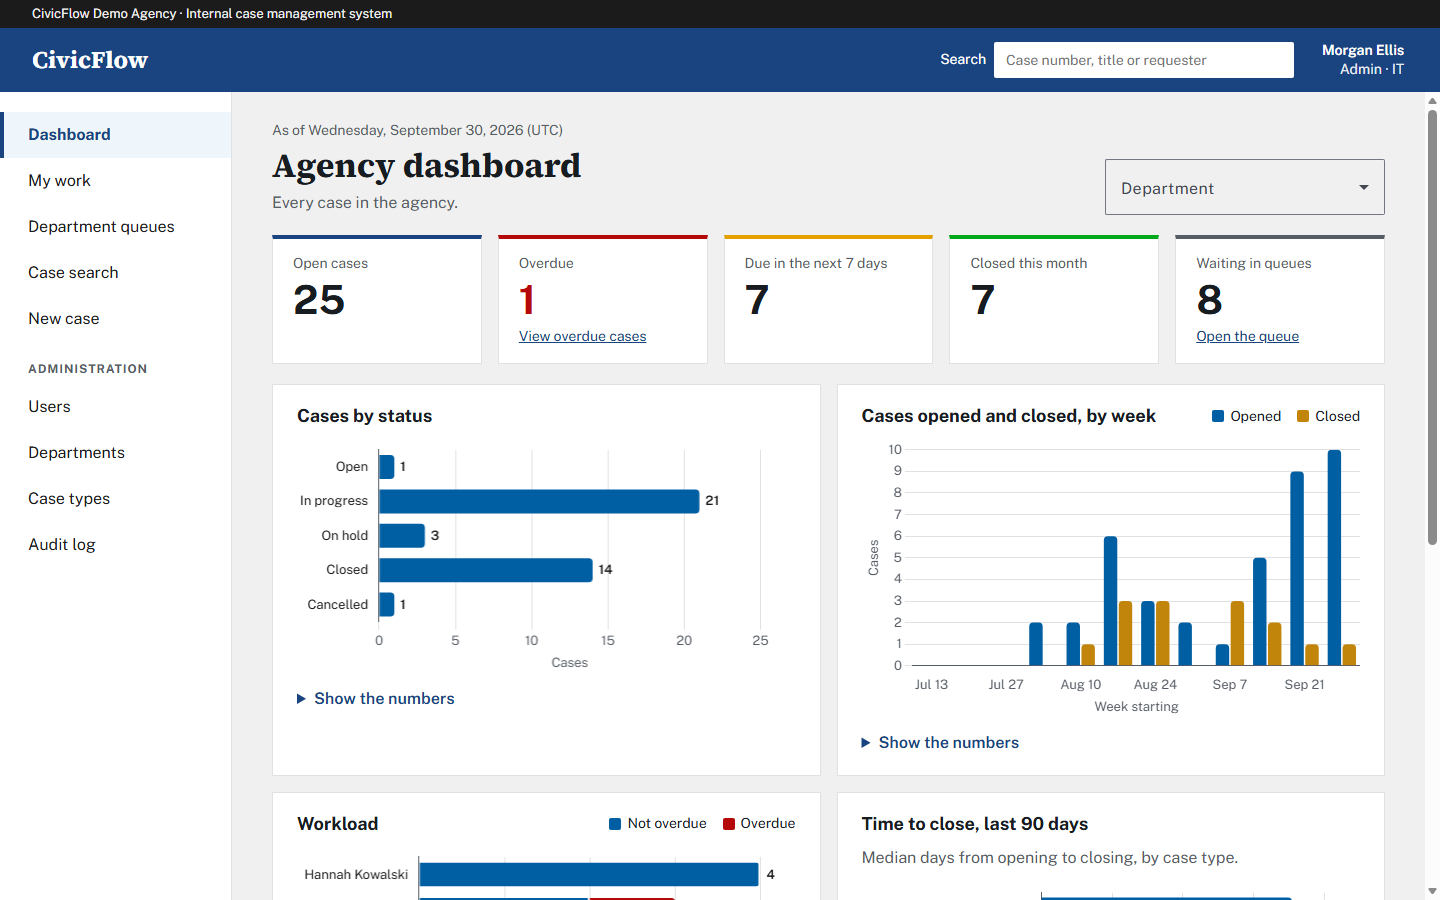
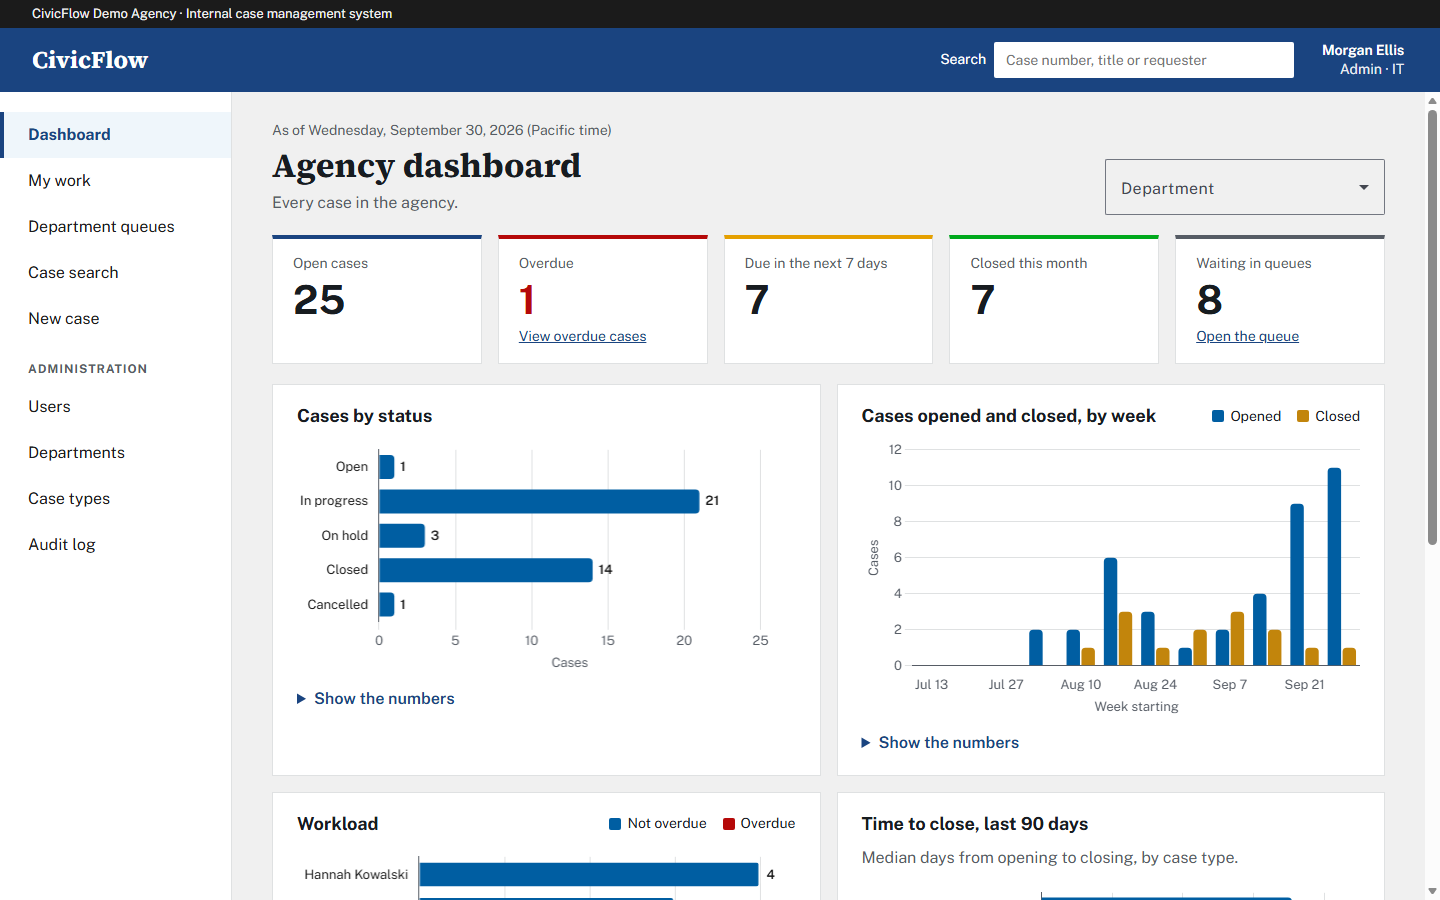
Bump GitHub Actions off the deprecated Node 20 runtime
checkout v4 -> v7, setup-dotnet v4 -> v6, upload-artifact v4 -> v7,
setup-node v4 -> v7. All now run on node24.

diff --git a/frontend/src/app/features/audit/audit-log-page.html b/frontend/src/app/features/audit/audit-log-page.html
@@ -53,13 +53,13 @@
     <mat-form-field appearance="outline" subscriptSizing="dynamic">
       <mat-label>From</mat-label>
       <input matInput formControlName="from" type="date" />
-      <mat-hint>UTC</mat-hint>
+      <mat-hint>Pacific time</mat-hint>
     </mat-form-field>
 
     <mat-form-field appearance="outline" subscriptSizing="dynamic">
       <mat-label>To</mat-label>
       <input matInput formControlName="to" type="date" [min]="form.controls.from.value" />
-      <mat-hint>UTC, inclusive</mat-hint>
+      <mat-hint>Pacific time, inclusive</mat-hint>
     </mat-form-field>
 
     <div class="form-actions">

diff --git a/frontend/src/app/core/api/dashboard.models.ts b/frontend/src/app/core/api/dashboard.models.ts
@@ -4,7 +4,7 @@ import { CaseStatus } from './cases.models';
 /** Whose work a dashboard covers: staff see their own, supervisors their department, admins the agency. */
 export type DashboardScope = 'Personal' | 'Department' | 'Agency';
 
-/** `GET /api/dashboard/summary`. Dates are UTC days (`yyyy-MM-dd`). */
+/** `GET /api/dashboard/summary`. Dates are Pacific-time days (`yyyy-MM-dd`). */
 export interface DashboardSummary {
   scope: DashboardScope;
   departmentId: number | null;

diff --git a/frontend/src/app/core/api/cases.models.ts b/frontend/src/app/core/api/cases.models.ts
@@ -48,7 +48,7 @@ export interface CaseSearchQuery {
   departmentId?: number;
   /** Cases whose active task is assigned to this user. */
   assigneeId?: number;
-  /** yyyy-MM-dd, UTC, inclusive. */
+  /** yyyy-MM-dd, Pacific time, inclusive. */
   createdFrom?: string;
   createdTo?: string;
   overdue?: boolean;

diff --git a/frontend/src/app/features/dashboard/dashboard-page.html b/frontend/src/app/features/dashboard/dashboard-page.html
@@ -1,7 +1,7 @@
 <div class="page-head">
   <div>
     @if (summary(); as s) {
-      <p class="as-of">As of {{ s.asOf | date: 'EEEE, MMMM d, y' }} (UTC)</p>
+      <p class="as-of">As of {{ s.asOf | date: 'EEEE, MMMM d, y' }} (Pacific time)</p>
     }
     <h1>{{ heading() }}</h1>
     @if (lede()) {

diff --git a/frontend/src/app/core/api/activity.models.ts b/frontend/src/app/core/api/activity.models.ts
@@ -73,7 +73,7 @@ export interface AuditQuery {
   caseId?: number;
   userId?: number;
   action?: string;
-  /** yyyy-MM-dd, UTC, inclusive. */
+  /** yyyy-MM-dd, Pacific time, inclusive. */
   from?: string;
   to?: string;
   page?: number;

diff --git a/backend/src/CivicFlow.Application/Cases/CaseService.cs b/backend/src/CivicFlow.Application/Cases/CaseService.cs
@@ -22,7 +22,7 @@ public sealed class CaseService(
     {
         await searchValidator.ValidateAndThrowAsync(query, cancellationToken);
         var actor = currentUser.RequireActor();
-        var today = timeProvider.GetUtcToday();
+        var today = timeProvider.GetToday();
 
         var cases = db.Cases.AsNoTracking().Where(WorkflowPermissions.CanView(actor));
 
@@ -53,13 +53,13 @@ public sealed class CaseService(
 
         if (query.CreatedFrom is { } from)
         {
-            var start = StartOfDay(from);
+            var start = AgencyTime.StartOfDay(from);
             cases = cases.Where(c => c.CreatedAt >= start);
         }
 
         if (query.CreatedTo is { } to)
         {
-            var end = StartOfDay(to.AddDays(1));
+            var end = AgencyTime.StartOfDay(to.AddDays(1));
             cases = cases.Where(c => c.CreatedAt < end);
         }
 
@@ -131,7 +131,7 @@ public sealed class CaseService(
             .Include(c => c.Tasks).ThenInclude(t => t.Assignee)
             .SingleAsync(c => c.Id == id, cancellationToken);
 
-        return ToDetail(@case, actor, timeProvider.GetUtcToday());
+        return ToDetail(@case, actor, timeProvider.GetToday());
     }
 
     public async Task<CaseDetailDto> CreateAsync(CreateCaseRequest request, CancellationToken cancellationToken = default)
@@ -161,7 +161,7 @@ public sealed class CaseService(
             FieldValues = fieldValues.Select(v => new CaseFieldValue { FieldId = v.Field.Id, Value = v.Value }).ToList(),
         };
         engine.Start(@case, caseType.Steps);
-        @case.CaseNumber = await caseNumbers.NextAsync(caseType.Prefix, @case.CreatedAt.Year, cancellationToken);
+        @case.CaseNumber = await caseNumbers.NextAsync(caseType.Prefix, AgencyTime.DateOf(@case.CreatedAt).Year, cancellationToken);
 
         db.Cases.Add(@case);
         await db.SaveChangesAsync(cancellationToken);
@@ -230,8 +230,6 @@ public sealed class CaseService(
         // A unique tiebreaker keeps paging stable.
         return descending ? ordered.ThenByDescending(c => c.Id) : ordered.ThenBy(c => c.Id);
     }
-
-    private static DateTimeOffset StartOfDay(DateOnly date) => new(date.ToDateTime(TimeOnly.MinValue), TimeSpan.Zero);
 
     private static bool IsOverdue(CaseStatus status, DateOnly? dueDate, DateOnly today) =>
         status is not (CaseStatus.Closed or CaseStatus.Cancelled) && dueDate < today;

diff --git a/backend/src/CivicFlow.Application/Dashboard/DashboardService.cs b/backend/src/CivicFlow.Application/Dashboard/DashboardService.cs
@@ -30,7 +30,7 @@ public sealed class DashboardService(ICivicFlowDbContext db, ICurrentUser curren
         }
 
         var now = timeProvider.GetUtcNow();
-        var today = timeProvider.GetUtcToday();
+        var today = timeProvider.GetToday();
         var cases = db.Cases.AsNoTracking().Where(CasesInScope(scope, actor.UserId, departmentId));
 
         var statusCounts = await cases
@@ -40,7 +40,7 @@ public sealed class DashboardService(ICivicFlowDbContext db, ICurrentUser curren
 
         var open = cases.Where(c => c.Status == CaseStatus.Open || c.Status == CaseStatus.InProgress || c.Status == CaseStatus.OnHold);
         var weekAhead = today.AddDays(7);
-        var monthStart = new DateTimeOffset(today.Year, today.Month, 1, 0, 0, 0, TimeSpan.Zero);
+        var monthStart = AgencyTime.StartOfDay(new DateOnly(today.Year, today.Month, 1));
 
         var kpis = new DashboardKpisDto(
             OpenCases: await open.CountAsync(cancellationToken),
@@ -173,7 +173,7 @@ public sealed class DashboardService(ICivicFlowDbContext db, ICurrentUser curren
         IQueryable<Case> cases, DateOnly today, CancellationToken cancellationToken)
     {
         var firstWeek = StartOfWeek(today).AddDays(-7 * (VolumeWeeks - 1));
-        var from = new DateTimeOffset(firstWeek.ToDateTime(TimeOnly.MinValue), TimeSpan.Zero);
+        var from = AgencyTime.StartOfDay(firstWeek);
 
         var opened = await cases.Where(c => c.CreatedAt >= from).Select(c => c.CreatedAt).ToListAsync(cancellationToken);
         var closed = await cases
@@ -189,6 +189,6 @@ public sealed class DashboardService(ICivicFlowDbContext db, ICurrentUser curren
             .Select(week => new WeeklyVolumeDto(week, openedByWeek.GetValueOrDefault(week), closedByWeek.GetValueOrDefault(week)))
             .ToList();
 
-        static DateOnly WeekOf(DateTimeOffset instant) => StartOfWeek(DateOnly.FromDateTime(instant.UtcDateTime));
+        static DateOnly WeekOf(DateTimeOffset instant) => StartOfWeek(AgencyTime.DateOf(instant));
     }
 }

diff --git a/backend/src/CivicFlow.Application/Common/TimeProviderExtensions.cs b/backend/src/CivicFlow.Application/Common/TimeProviderExtensions.cs
@@ -1,8 +1,27 @@
 namespace CivicFlow.Application.Common;
 
+/// <summary>
+/// The agency's calendar is Pacific time (Sacramento). Instants are stored as they happened; due
+/// dates, "today" and date filters are days in this zone, as in the seed data.
+/// </summary>
+public static class AgencyTime
+{
+    public static readonly TimeZoneInfo Zone = TimeZoneInfo.FindSystemTimeZoneById("America/Los_Angeles");
+
+    /// <summary>The Pacific date <paramref name="instant"/> falls on.</summary>
+    public static DateOnly DateOf(DateTimeOffset instant) =>
+        DateOnly.FromDateTime(TimeZoneInfo.ConvertTime(instant, Zone).DateTime);
+
+    /// <summary>Midnight Pacific at the start of <paramref name="date"/>.</summary>
+    public static DateTimeOffset StartOfDay(DateOnly date)
+    {
+        var midnight = date.ToDateTime(TimeOnly.MinValue);
+        return new DateTimeOffset(midnight, Zone.GetUtcOffset(midnight));
+    }
+}
+
 public static class TimeProviderExtensions
 {
-    /// <summary>Today's date in UTC, which is how due dates are computed and compared (as in the seed data).</summary>
-    public static DateOnly GetUtcToday(this TimeProvider timeProvider) =>
-        DateOnly.FromDateTime(timeProvider.GetUtcNow().UtcDateTime);
+    /// <summary>Today's date in Pacific time, which is how due dates are computed and compared.</summary>
+    public static DateOnly GetToday(this TimeProvider timeProvider) => AgencyTime.DateOf(timeProvider.GetUtcNow());
 }

diff --git a/backend/src/CivicFlow.Infrastructure/Persistence/Seeding/DevDataSeeder.cs b/backend/src/CivicFlow.Infrastructure/Persistence/Seeding/DevDataSeeder.cs
@@ -1,5 +1,6 @@
 using System.Globalization;
 using CivicFlow.Application.Abstractions;
+using CivicFlow.Application.Common;
 using CivicFlow.Domain.Entities;
 using CivicFlow.Domain.Enums;
 using CivicFlow.Infrastructure.Identity;
@@ -230,7 +231,7 @@ internal static class DevDataSeeder
         foreach (var (type, createdAt) in specs)
         {
             var @case = CreateCase(type, createdAt, now, users, rng);
-            @case.CaseNumber = await caseNumbers.NextAsync(type.Prefix, createdAt.Year, cancellationToken);
+            @case.CaseNumber = await caseNumbers.NextAsync(type.Prefix, AgencyTime.DateOf(createdAt).Year, cancellationToken);
             cases.Add(@case);
         }
 
@@ -487,7 +488,7 @@ internal static class DevDataSeeder
 
     private static string Address(Random rng) => $"{rng.Next(100, 10000)} {Pick(rng, Streets)}";
 
-    private static DateOnly ToDate(DateTimeOffset value) => DateOnly.FromDateTime(value.UtcDateTime);
+    private static DateOnly ToDate(DateTimeOffset value) => AgencyTime.DateOf(value);
 
     private static T Pick<T>(Random rng, IReadOnlyList<T> items) => items[rng.Next(items.Count)];
 

diff --git a/backend/src/CivicFlow.Application/Workflow/WorkflowEngine.cs b/backend/src/CivicFlow.Application/Workflow/WorkflowEngine.cs
@@ -43,7 +43,7 @@ public sealed class WorkflowEngine(TimeProvider timeProvider)
         @case.Status = CaseStatus.Open;
         @case.Resolution = null;
         @case.CreatedAt = timeProvider.GetUtcNow();
-        @case.DueDate = timeProvider.GetUtcToday().AddDays(ordered.Sum(s => s.SlaDays));
+        @case.DueDate = timeProvider.GetToday().AddDays(ordered.Sum(s => s.SlaDays));
         @case.Tasks = ordered
             .Select(step => new WorkflowTask
             {
@@ -218,7 +218,7 @@ public sealed class WorkflowEngine(TimeProvider timeProvider)
         task.Outcome = null;
         task.StartedAt = timeProvider.GetUtcNow();
         task.CompletedAt = null;
-        task.DueDate = timeProvider.GetUtcToday().AddDays(task.StepTemplate.SlaDays);
+        task.DueDate = timeProvider.GetToday().AddDays(task.StepTemplate.SlaDays);
     }
 
     /// <summary>

diff --git a/backend/src/CivicFlow.Application/Audit/AuditService.cs b/backend/src/CivicFlow.Application/Audit/AuditService.cs
@@ -75,13 +75,13 @@ public sealed class AuditService(
 
         if (query.From is { } from)
         {
-            var start = StartOfDay(from);
+            var start = AgencyTime.StartOfDay(from);
             entries = entries.Where(a => a.Timestamp >= start);
         }
 
         if (query.To is { } to)
         {
-            var end = StartOfDay(to.AddDays(1));
+            var end = AgencyTime.StartOfDay(to.AddDays(1));
             entries = entries.Where(a => a.Timestamp < end);
         }
 
@@ -123,6 +123,4 @@ public sealed class AuditService(
                 .ToList(),
             page.Page, page.PageSize, page.TotalCount);
     }
-
-    private static DateTimeOffset StartOfDay(DateOnly date) => new(date.ToDateTime(TimeOnly.MinValue), TimeSpan.Zero);
 }

diff --git a/backend/src/CivicFlow.Application/Cases/CaseRequests.cs b/backend/src/CivicFlow.Application/Cases/CaseRequests.cs
@@ -67,10 +67,10 @@ public sealed class CaseSearchQuery : PageQuery
     /// <summary>Cases whose active task is assigned to this user.</summary>
     public int? AssigneeId { get; set; }
 
-    /// <summary>Created on or after this date (UTC).</summary>
+    /// <summary>Created on or after this date (Pacific time).</summary>
     public DateOnly? CreatedFrom { get; set; }
 
-    /// <summary>Created on or before this date (UTC).</summary>
+    /// <summary>Created on or before this date (Pacific time).</summary>
     public DateOnly? CreatedTo { get; set; }
 
     /// <summary>Unfinished cases past their due date (true) or not (false).</summary>
